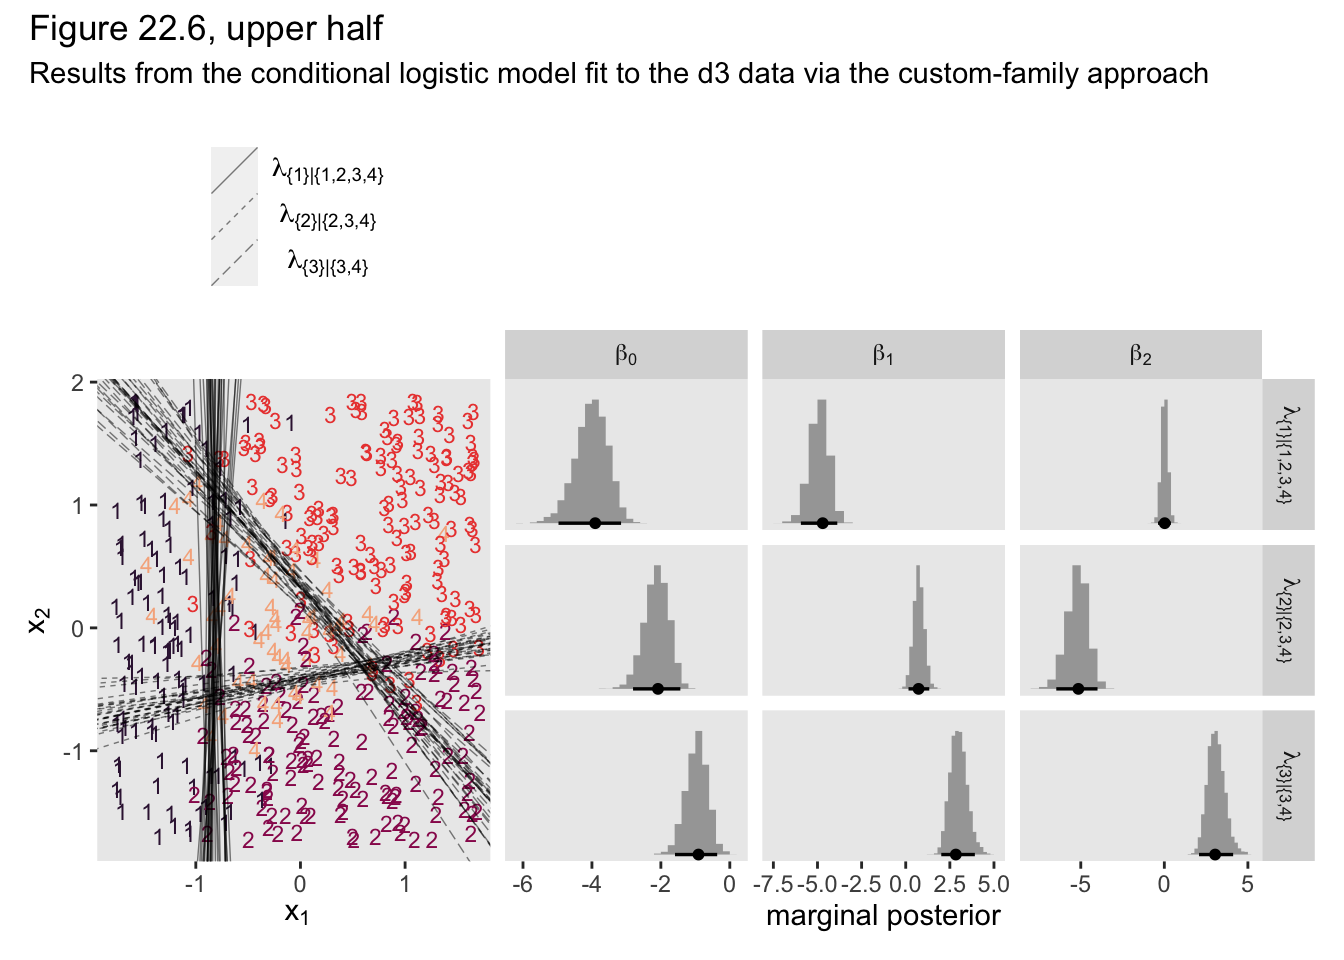
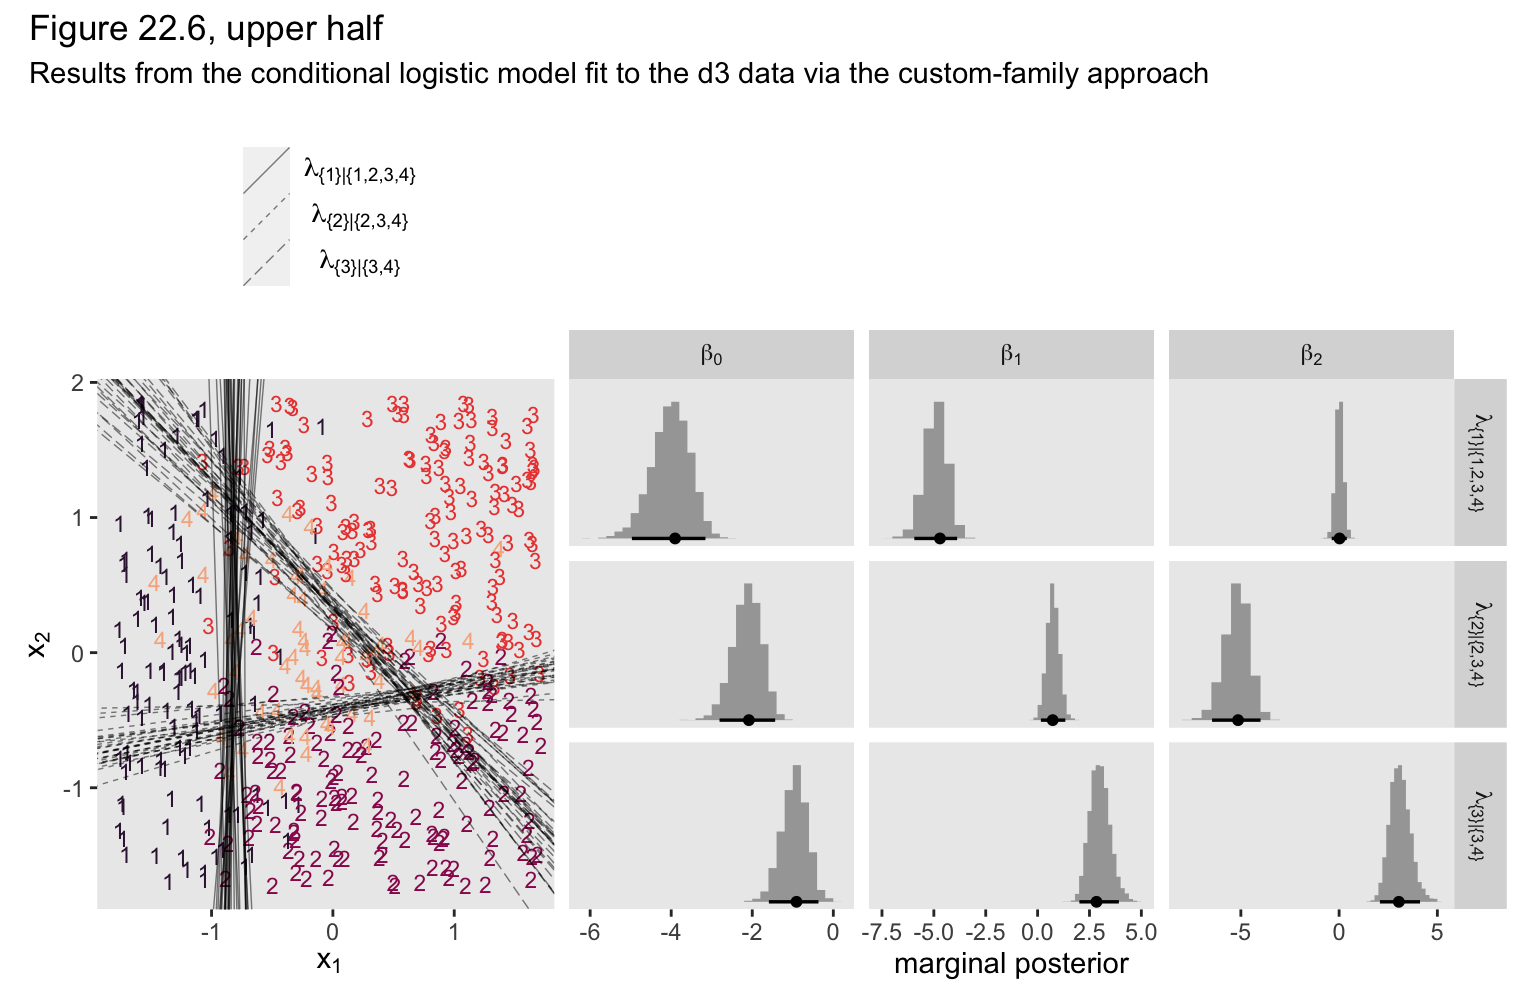
prose fixes and fig sizes

diff --git a/content/post/2021-11-17-conditional-logistic-models-with-brms-rough-draft/index.html b/content/post/2021-11-17-conditional-logistic-models-with-brms-rough-draft/index.html
@@ -96,7 +96,7 @@ glimpse(d3)</code></pre>
 ## $ X1 &lt;dbl&gt; -0.08714736, -0.72256565, 0.17918961, -1.15975176, -0.72711762, 0.5…
 ## $ X2 &lt;dbl&gt; -1.08134218, -1.58386308, 0.97179045, 0.50262438, 1.37570446, 1.774…
 ## $ Y  &lt;dbl&gt; 4, 4, 3, 4, 2, 3, 4, 3, 4, 4, 2, 4, 4, 3, 3, 4, 4, 4, 4, 3, 4, 4, 1…</code></pre>
-<p>In both data sets, the ordinal criterion is <code>Y</code> and the two predictors are <code>X1</code> and <code>X2</code>. Though the data are simple enough, the conditional logistic models are complex enough that it seems like we’ll be better served by focusing on them one at a time, which means I’m going to break up Figure 22.2. Here’s how to make the diagram in the left panel.</p>
+<p>In both data sets, the nominal criterion is <code>Y</code> and the two predictors are <code>X1</code> and <code>X2</code>. Though the data seem simple, the conditional logistic models are complex enough that it seems like we’ll be better served by focusing on them one at a time, which means I’m going to break up Figure 22.2. Here’s how to make the diagram in the left panel.</p>
 <pre class="r"><code># the big numbers
 numbers &lt;- tibble(
   x = c(3, 5, 2, 4, 1, 3, 2),
@@ -136,7 +136,7 @@ tibble(
   xlim(-1, 7) +
   theme_void()</code></pre>
 <p><img src="{{< blogdown/postref >}}index_files/figure-html/unnamed-chunk-3-1.png" width="672" /></p>
-<p>The large numbers are the four levels in the criterion <code>Y</code> and the smaller numbers in the curly braces are various sets of those numbers. The diagram shows three levels of outcome set divisions:</p>
+<p>The large numbers are the four levels in the criterion <code>Y</code> and the smaller numbers in the curly braces are various sets of those numbers. The diagram shows three levels of outcome-set divisions:</p>
 <ul>
 <li>1 versus 2, 3, or 4;</li>
 <li>2 versus 3 or 4; and</li>
@@ -223,7 +223,7 @@ d3 %&gt;%
 <p>Recall back on page 629, Kruschke showed the equation for the 50% threshold of a logistic regression model given two continuous predictors was</p>
 <p><span class="math display">\[x_2 = (-\beta_0 / \beta_2) + (-\beta_1 / \beta_2) x_1.\]</span></p>
 <p>It was that equation that gave us the values for the <code>intercept</code> and <code>slope</code> arguments (<span class="math inline">\(-\beta_0 / \beta_2\)</span> and <span class="math inline">\(-\beta_1 / \beta_2\)</span>, respectively) for the <code>geom_abline()</code> function.</p>
-<p>It still might not be clear how the various <span class="math inline">\(\phi_{S^* | S}\)</span> values connect to the data. Though not in the text, here’s an alternative way of expression the relations in Figure 22.3. This time the plot is faceted by the three levels of <span class="math inline">\(\phi_{S^* | S}\)</span> and the background fill is based on those conditional probabilities.</p>
+<p>It still might not be clear how the various <span class="math inline">\(\phi_{S^* | S}\)</span> values connect to the data. Though not in the text, here’s an alternative way of expressing the relations in Figure 22.3. This time the plot is faceted by the three levels of <span class="math inline">\(\phi_{S^* | S}\)</span> and the background fill is based on those conditional probabilities.</p>
 <pre class="r"><code># define a grid of X1 and X2 values
 crossing(X1 = seq(from = -2, to = 2, length.out = 50),
          X2 = seq(from = -2, to = 2, length.out = 50)) %&gt;% 
@@ -257,7 +257,7 @@ crossing(X1 = seq(from = -2, to = 2, length.out = 50),
   theme(legend.position = c(0.8, 0.2)) +
   facet_wrap(~ name, labeller = label_parsed, ncol = 2)</code></pre>
 <p><img src="{{< blogdown/postref >}}index_files/figure-html/unnamed-chunk-5-1.png" width="672" /></p>
-<p>Notice how because each of the levels of <span class="math inline">\(\phi\)</span> is defined by a different subset of the data, each of the facets contains a different subset of the <code>d3</code> data, too. For example, since <span class="math inline">\(\phi_{\{ 1 \} | \{ 1,2,3,4 \}}\)</span> is defined by the full subset of the possible values of <code>Y</code>, the data within <code>geom_text()</code> for that facet. In contrast, since <span class="math inline">\(\phi_{\{ 3 \} | \{ 3,4 \}}\)</span> is defined by a subset of the data for which <code>Y</code> is only <code>3</code> or <code>4</code>, those are the only values you see displayed within that facet of the plot.</p>
+<p>Notice how because each of the levels of <span class="math inline">\(\phi\)</span> is defined by a different subset of the data, each of the facets contains a different subset of the <code>d3</code> data, too. For example, since <span class="math inline">\(\phi_{\{ 1 \} | \{ 1,2,3,4 \}}\)</span> is defined by the full subset of the possible values of <code>Y</code>, you see all the <code>Y</code> data displayed by <code>geom_text()</code> for that facet. In contrast, since <span class="math inline">\(\phi_{\{ 3 \} | \{ 3,4 \}}\)</span> is defined by a subset of the data for which <code>Y</code> is only <code>3</code> or <code>4</code>, those are the only values you see displayed within that facet of the plot.</p>
 <p>Now we’ll consider an alternative way to set up the binary-choices hierarchy, as seen in the right panel of Figure 22.2. First, here’s that half of the figure.</p>
 <pre class="r"><code># the big numbers
 numbers &lt;- tibble(
@@ -298,7 +298,7 @@ tibble(
   xlim(-1, 10) +
   theme_void()</code></pre>
 <p><img src="{{< blogdown/postref >}}index_files/figure-html/unnamed-chunk-6-1.png" width="672" /></p>
-<p>This diagram shows three levels of outcome set divisions:</p>
+<p>This diagram shows three levels of outcome-set divisions:</p>
 <ul>
 <li>1 or 2 versus 3 or 4;</li>
 <li>1 versus 2; and</li>
@@ -422,11 +422,10 @@ crossing(X1 = seq(from = -2, to = 2, length.out = 50),
 <li>First we’ll walk through the custom family approach.</li>
 <li>Second we’ll explore the sequential ordinal approach.</li>
 </ol>
-<p>However, there are at least two other ways to fit conditional logistic models with <strong>brms</strong>. Based on insights from <a href="http://singmann.org/">Henrik Singmann</a>, we can define conditional logistic models using the custom family approach. In contrast, <a href="https://sites.google.com/view/mattansb">Mattan Ben-Shachar</a> has shown we can also fit conditional logistic models using a tricky application of sequential ordinal regression. Rather than present them in the abstract, here, we will showcase both of these approaches in the sections below.</p>
 <div id="conditional-logistic-models-with-custom-likelihoods." class="section level5">
 <h5>Conditional logistic models with custom likelihoods.</h5>
 <p>As we briefly learned in [Section 8.6.1][Defining new likelihood functions.], <strong>brms</strong> users can define their own custom likelihood functions, which Bürkner outlined in his <span class="citation">(<a href="#ref-Bürkner2021Define" role="doc-biblioref">2021</a>)</span> vignette, <a href="https://CRAN.R-project.org/package=brms/vignettes/brms_customfamilies.html"><em>Define custom response distributions with brms</em></a>. As part of the <a href="https://discourse.mc-stan.org/t/nominal-data-and-kruschkes-conditional-logistic-approach/21433"><em>Nominal data and Kruschke’s “conditional logistic” approach</em></a> thread on the Stan forums, Henrik Singmann showed how you can use this functionality to fit conditional logistic models with <strong>brms</strong>. We will practice how to do this for the models of both the <code>d3</code> and <code>d4</code> data sets, which were showcased in the left and right panels of Figure 22.3 in <a href="#conditional-logistic-regression">Section 22.2</a>. Going in order, we’ll focus first on how to model the data in <code>d3</code>.</p>
-<p>For the first step, we use the <code>custom_family()</code> to</p>
+<p>For the first step, we use the <code>custom_family()</code> function to</p>
 <ul>
 <li>name the new family with the <code>name</code> argument,</li>
 <li>name the family’s parameters with the <code>dpars</code> argument,</li>
@@ -594,7 +593,7 @@ p2 &lt;-
   plot_layout(widths = c(1, 2)) &amp;
   plot_annotation(title = &quot;Figure 22.6, upper half&quot;,
                   subtitle = &quot;Results from the conditional logistic model fit to the d3 data via the custom-family approach&quot;)</code></pre>
-<p><img src="{{< blogdown/postref >}}index_files/figure-html/unnamed-chunk-15-1.png" width="672" /></p>
+<p><img src="{{< blogdown/postref >}}index_files/figure-html/unnamed-chunk-15-1.png" width="768" /></p>
 <p>Though it isn’t necessary to reproduce any of the plots in this section of Kruschke’s text, we’ll want to use the <code>expose_functions()</code> function if we wanted to use any of the <strong>brms</strong> post-processing functions for our model fit with the custom likelihood.</p>
 <pre class="r"><code>expose_functions(fit22.3, vectorize = TRUE)</code></pre>
 <p>Here’s what we’d need to do before computing information criteria estimates, such as with the WAIC.</p>
@@ -709,7 +708,7 @@ vector cond_log_2_pred(int y, real mu, real mu_b, real mu_c, int n_cat) {
   return(prob);
 }
 &quot;) </code></pre>
-<p>Now we’re ready to fit the model with <code>brm()</code>. Notice how our use of the <code>family</code> and <code>stanvars</code> functions.</p>
+<p>Now we’re ready to fit the model with <code>brm()</code>. Again, notice how our use of the <code>family</code> and <code>stanvars</code> functions.</p>
 <pre class="r"><code>fit22.4 &lt;-
   brm(data = d4, 
       family = cond_log_2,
@@ -908,7 +907,7 @@ ac$data %&gt;%
 </div>
 <div id="conditional-logistic-models-by-sequential-ordinal-regression." class="section level5">
 <h5>Conditional logistic models by sequential ordinal regression.</h5>
-<p>In their <span class="citation">(<a href="#ref-burknerOrdinalRegressionModels2019" role="doc-biblioref">2019</a>)</span> paper, <a href="https://psyarxiv.com/x8swp/"><em>Ordinal regression models in psychology: A Tutorial</em></a>, Bürkner and Vourre outlined a framework for fitting a variety of orginal models with <strong>brms</strong>. We’ll learn more about ordinal models in [Chapter 23][Ordinal Predicted Variable]. In this section, we’ll use Mattan Ben-Shachar’s strategy and purpose one of the ordinal models to fit a conditional logistic model to our nominal data.</p>
+<p>In their <span class="citation">(<a href="#ref-burknerOrdinalRegressionModels2019" role="doc-biblioref">2019</a>)</span> paper, <a href="https://psyarxiv.com/x8swp/"><em>Ordinal regression models in psychology: A tutorial</em></a>, Bürkner and Vourre outlined a framework for fitting a variety of orginal models with <strong>brms</strong>. We’ll learn more about ordinal models in [Chapter 23][Ordinal Predicted Variable]. In this section, we’ll use Mattan Ben-Shachar’s strategy and purpose one of the ordinal models to fit a conditional logistic model to our nominal data.</p>
 <p>As outlined in <span class="citation"><a href="#ref-burknerOrdinalRegressionModels2019" role="doc-biblioref">Bürkner &amp; Vuorre</a> (<a href="#ref-burknerOrdinalRegressionModels2019" role="doc-biblioref">2019</a>)</span>, and as we will learn in greater detain in the next chapter, many ordinal regression models presume an underlying continuous process. However, you can use a sequential model in cases where one level of the criterion is only possible after the lower levels of the criterion have been achieved. Although this is not technically correct for the nominal variable <code>Y</code> in the <code>d3</code> data set, the simple hierarchical sequence Kruschke used to model those data does follow that same pattern. Ben-Shachar’s insight was that if we treat our nominal variable <code>Y</code> as ordinal, the sequential model will mimic the sequential-ness of Kruschke’s binary-choices hierarchy. To get this to work, we first have to save an ordinal version of <code>Y</code>, which we’ll call <code>Y_ord</code>.</p>
 <pre class="r"><code>d3 &lt;-
   d3 %&gt;% 
@@ -1054,7 +1053,7 @@ loo_compare(fit22.3, fit22.5, criterion = &quot;waic&quot;) %&gt;%
 ##         se_waic
 ## fit22.3   33.6 
 ## fit22.5   33.6</code></pre>
-<p>A limitation of the <code>family = sratio</code> method for conditional logistic models is it requires a simple binary-divisions hierarchy that resembles the one we just used, the one in the left panel of Figure 22.2. It is not well suited for the more complicated hierarchy displayed in the right panel of Figure 22.3, nor will it help you make sense of data generated by that kind of mechanism. For example, consider what happens when we try to use <code>family = sratio</code> with the <code>d4</code> data.</p>
+<p>A limitation of the <code>family = sratio</code> method for conditional logistic models is it requires a simple binary-divisions hierarchy that resembles the one we just used, the one in the left panel of Figure 22.2. It is not well suited for the more complicated hierarchy displayed in the right panel of Figure 22.2, nor will it help you make sense of data generated by that kind of mechanism. For example, consider what happens when we try to use <code>family = sratio</code> with the <code>d4</code> data.</p>
 <pre class="r"><code># make an ordinal version of Y
 d4 &lt;-
   d4 %&gt;% 
@@ -1166,7 +1165,7 @@ post %&gt;%
   plot_layout(widths = c(1, 2)) &amp;
   plot_annotation(title = &quot;Figure 22.7, lower half&quot;,
                   subtitle = &quot;Results from the conditional logistic model fit to the d4 data via the sequential-ordinal approach&quot;)</code></pre>
-<p><img src="{{< blogdown/postref >}}index_files/figure-html/unnamed-chunk-34-1.png" width="672" /></p>
+<p><img src="{{< blogdown/postref >}}index_files/figure-html/unnamed-chunk-34-1.png" width="768" /></p>
 <p>We ended up with our version of the lower half of Figure 22.7. As with the previous model, the sequential-ordinal approach reverses the signs for the <span class="math inline">\(\beta_1\)</span> and <span class="math inline">\(\beta_2\)</span> parameters, which isn’t a big deal as long as you keep that in mind. The larger issue is that the thresholds displayed in the left panel do a poor job differentiating among the various <code>Y</code> categories. The model underlying those thresholds is a bad match for the data.</p>
 </div>
 <div id="conditional-logistic-wrap-up." class="section level5">
